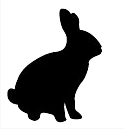
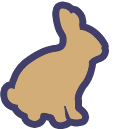
finishing styles

diff --git a/style.scss b/style.scss
@@ -4,6 +4,7 @@ h1 {
     width: 100%;
     margin: 50px 0;
     font-size: 60px;
+    font-weight: 700;
 }
 
 .btn {
@@ -11,20 +12,78 @@ h1 {
     font-size: 20px!important;
 }
 
+.btn-success {
+    background: #413e69;
+    border: 0;
+    &:hover {
+        background: darken(#413e69, 4%);
+    }
+    &:focus {
+        box-shadow: 0 0 0 .2rem rgba(65, 62, 105, 0.4)!important;
+        background: darken(#413e69, 4%);
+    }
+    &:active {
+        color: #fff;
+        background-color: lighten(#413e69, 3%)!important;
+        border: 0!important;
+        box-shadow: 0 0 0 .2rem rgba(65, 62, 105, 0.534)!important;
+    }
+}
+
+.btn-warning {
+    background: #f1d896;
+    border: 0;
+    &:hover {
+        background: darken(#f1d896, 4%);
+        color: #fff!important;
+    }
+    &:focus {
+        box-shadow: 0 0 0 .2rem rgba(241, 217, 150, 0.822)!important;
+        background: darken(#f1d896, 4%);
+        color: #fff!important;
+    }
+    &:active {
+        color: #fff!important;
+        background-color: lighten(#f1d896, 3%)!important;
+        border: 0!important;
+        box-shadow: 0 0 0 .2rem rgba(241, 217, 150, 0.829)!important;
+        color: white;
+    }
+    &.disabled {
+        background: lighten(#f1d896, 6%);
+        border: 0;
+    }
+}
+
 .btn-danger {
     color: white!important;
     font-size: 20px!important;
+    width: 44px;
 }
 
 .btn-default {
     color: #999!important;
     font-size: 20px!important;
+    &:hover,
+    &:focus {
+        background: darken(#f0f0f0, 2%);
+    }
+}
+
+.container {
+    @media (max-width: 768px) {
+        padding-right: 40px;
+        padding-left: 40px;
+    }
 }
 
 .head {
     padding: 0 0 20px 0;
+    @media (max-width: 768px) {
+        display: none;
+    }
     p {
-        font-weight: 500;
+        font-weight: 700;
         font-size: 28px;
     }
 }
@@ -36,12 +95,33 @@ p {
     padding: 5px 0;
     margin: 0;
     margin-bottom: 0;
+    &.winner {
+        @media (max-width: 992px) {
+            font-size: 16px;
+        }
+    }
 }
 
 .progress {
-    height: 100%;
+    height: 40px;
+    overflow: visible;
     .progress-bar {
-        transition: width .3s;
+        transition: width .3s; //animation-direction: reverse;
+        position: relative;
+        border-radius: 4px;
+        &.bg-success {
+            background-color: #7d7aad !important;
+        }
+        .rabbit {
+            background: url("rabbit.png");
+            background-size: 49px;
+            background-repeat: no-repeat;
+            position: absolute;
+            right: -18px;
+            top: -5px;
+            width: 44px;
+            height: 51px;
+        }
     }
 }
 

diff --git a/style.css b/style.css
@@ -4,6 +4,7 @@ h1 {
   width: 100%;
   margin: 50px 0;
   font-size: 60px;
+  font-weight: 700;
 }
 
 .btn {
@@ -11,21 +12,84 @@ h1 {
   font-size: 20px !important;
 }
 
+.btn-success {
+  background: #413e69;
+  border: 0;
+}
+.btn-success:hover {
+  background: #39365c;
+}
+.btn-success:focus {
+  -webkit-box-shadow: 0 0 0 0.2rem rgba(65, 62, 105, 0.4) !important;
+          box-shadow: 0 0 0 0.2rem rgba(65, 62, 105, 0.4) !important;
+  background: #39365c;
+}
+.btn-success:active {
+  color: #fff;
+  background-color: #474473 !important;
+  border: 0 !important;
+  -webkit-box-shadow: 0 0 0 0.2rem rgba(65, 62, 105, 0.534) !important;
+          box-shadow: 0 0 0 0.2rem rgba(65, 62, 105, 0.534) !important;
+}
+
+.btn-warning {
+  background: #f1d896;
+  border: 0;
+}
+.btn-warning:hover {
+  background: #efd184;
+  color: #fff !important;
+}
+.btn-warning:focus {
+  -webkit-box-shadow: 0 0 0 0.2rem rgba(241, 217, 150, 0.822) !important;
+          box-shadow: 0 0 0 0.2rem rgba(241, 217, 150, 0.822) !important;
+  background: #efd184;
+  color: #fff !important;
+}
+.btn-warning:active {
+  color: #fff !important;
+  background-color: #f3dda4 !important;
+  border: 0 !important;
+  -webkit-box-shadow: 0 0 0 0.2rem rgba(241, 217, 150, 0.829) !important;
+          box-shadow: 0 0 0 0.2rem rgba(241, 217, 150, 0.829) !important;
+  color: white;
+}
+.btn-warning.disabled {
+  background: #f5e2b1;
+  border: 0;
+}
+
 .btn-danger {
   color: white !important;
   font-size: 20px !important;
+  width: 44px;
 }
 
 .btn-default {
   color: #999 !important;
   font-size: 20px !important;
 }
+.btn-default:hover, .btn-default:focus {
+  background: #ebebeb;
+}
+
+@media (max-width: 768px) {
+  .container {
+    padding-right: 40px;
+    padding-left: 40px;
+  }
+}
 
 .head {
   padding: 0 0 20px 0;
 }
+@media (max-width: 768px) {
+  .head {
+    display: none;
+  }
+}
 .head p {
-  font-weight: 500;
+  font-weight: 700;
   font-size: 28px;
 }
 
@@ -37,13 +101,34 @@ p {
   margin: 0;
   margin-bottom: 0;
 }
+@media (max-width: 992px) {
+  p.winner {
+    font-size: 16px;
+  }
+}
 
 .progress {
-  height: 100%;
+  height: 40px;
+  overflow: visible;
 }
 .progress .progress-bar {
   -webkit-transition: width .3s;
   transition: width .3s;
+  position: relative;
+  border-radius: 4px;
+}
+.progress .progress-bar.bg-success {
+  background-color: #7d7aad !important;
+}
+.progress .progress-bar .rabbit {
+  background: url("rabbit.png");
+  background-size: 49px;
+  background-repeat: no-repeat;
+  position: absolute;
+  right: -18px;
+  top: -5px;
+  width: 44px;
+  height: 51px;
 }
 
 .bar-inner {

diff --git a/index.html b/index.html
@@ -2,7 +2,7 @@
 <html lang="en">
 
 <head>
-    <title>Title</title>
+    <title>Dixit jest spoko</title>
     <!-- Required meta tags -->
     <meta charset="utf-8">
     <meta name="viewport" content="width=device-width, initial-scale=1, shrink-to-fit=no">
@@ -19,13 +19,13 @@
         <div class="row">
             <div class="col-xs-12 col-md-12">
                 <h1>
-                    Dixit jest spoko
+                    <img src="logo.png" class="img-fluid" alt="Tixid - dixit board">
                 </h1>
             </div>
         </div>
 
         <div id="app">
-            <div class="row head">
+            <div class="row head d-xs-none d-sm-none">
                 <div class="col-md-3 col-xs-12">
                     <p>Gracz</p>
                 </div>
@@ -45,17 +45,18 @@
                         <div class="progress">
                             <div class="progress-bar progress-bar-striped progress-bar-animated bg-success" role="progressbar" aria-valuenow="75" aria-valuemin="0"
                                 aria-valuemax="100" style="max-width: 100%;" :style="{ width: row.width + '%' }">
-                                <p v-if="row.width >=100">Jesteś perłą, diamentem!</p>
+                                <span class="rabbit"></span>
+                                <p class="winner" v-if="row.width >=100">Jesteś perłą, diamentem!</p>
                             </div>
                         </div>
                     </div>
-                    <div class="col-md-1 col-xs-12">
+                    <div class="col-md-1 col-xs-6">
                         <p>{{ row.score }}</p>
 
                     </div>
-                    <div class="col-md-3 col-xs-12 actions">
-                        <a href="#" class="btn btn-warning" @click="row.width = row.width - multiply; row.score--" v-bind:class="{'disabled': row.score == 0}">-1</a>
-                        <a href="#" class="btn btn-success" @click="row.width = row.width + multiply; row.score++">+1</a>
+                    <div class="col-md-3 col-xs-6 actions">
+                        <a href="javascript:void(0)" class="btn btn-warning" @click="row.width = row.width - multiply; row.score--" v-bind:class="{'disabled': row.score == 0}">-1</a>
+                        <a href="javascript:void(0)" class="btn btn-success" @click="row.width = row.width + multiply; row.score++">+1</a>
                         <a class="btn btn-danger float-right" @click="removeRow(index)">X</a>
                     </div>
                     <div class="col-md-12 col-xs-12">
